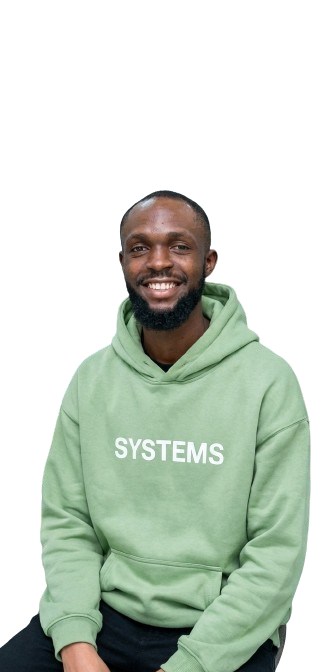
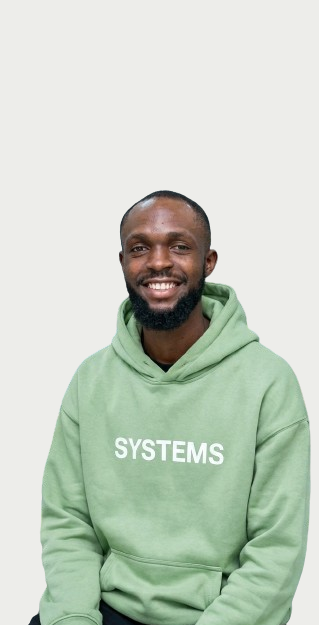
Fix photo to float freely without a card, mask crop with sage shape, redo Navbar for light theme and remove pulsing badge

Changed region(s): [[0.0, 0.2736, 0.9875, 1.0]]

diff --git a/src/components/Navbar.tsx b/src/components/Navbar.tsx
@@ -2,7 +2,7 @@ import React, { useState, useEffect } from 'react';
 import { BRAND_INFO, PAGES_CONFIG } from '../data/portfolioData';
 import { PageId } from '../types';
 import { sound } from '../utils/audio';
-import { Calendar, Menu, X, ArrowUpRight, Instagram, Layers } from 'lucide-react';
+import { Calendar, Menu, X, ArrowUpRight, Instagram } from 'lucide-react';
 
 interface NavbarProps {
   currentPage: PageId;
@@ -30,62 +30,52 @@ export const Navbar: React.FC<NavbarProps> = ({ currentPage, onNavigate, onOpenB
 
   return (
     <header className="sticky top-0 z-50 transition-all duration-300">
-      {/* Top Status Bar (Moritz Dunkel style) */}
-      <div className="bg-[#0C120F] text-[#EDEDEA] py-1.5 px-4 text-xs border-b border-white/5 font-mono">
+      {/* Top Status Bar */}
+      <div className="bg-[#EDEDEA] text-[#16201B] py-1.5 px-4 text-xs border-b border-black/5 font-mono">
         <div className="max-w-7xl mx-auto flex items-center justify-between">
-          <div className="flex items-center gap-2.5">
-            <span className="relative flex h-2 w-2">
-              <span className="animate-ping absolute inline-flex h-full w-full rounded-full bg-emerald-400 opacity-75"></span>
-              <span className="relative inline-flex rounded-full h-2 w-2 bg-emerald-500"></span>
-            </span>
-            <span className="text-white/80 text-[11px] uppercase tracking-wider">
-              OPERATIONAL SYSTEMS ARCHITECT • AVAILABLE FOR SELECT CLIENTS
-            </span>
-          </div>
-
-          <div className="hidden sm:flex items-center gap-4 text-[11px] text-white/60">
-            <span className="text-[#D4AF37]">● Certified Across 8 Tech Badges</span>
-            <a
-              href={BRAND_INFO.instagram}
-              target="_blank"
-              rel="noopener noreferrer"
-              className="text-white/80 hover:text-[#D4AF37] transition-colors flex items-center gap-1"
-            >
-              <span>{BRAND_INFO.instagramHandle}</span>
-              <ArrowUpRight className="w-3 h-3" />
-            </a>
-          </div>
+          <span className="text-[#16201B]/70 text-[11px]">
+            Open for new clients
+          </span>
+          <a
+            href={BRAND_INFO.instagram}
+            target="_blank"
+            rel="noopener noreferrer"
+            className="text-[#16201B]/70 hover:text-[#4A7350] transition-colors flex items-center gap-1 text-[11px]"
+          >
+            <span>{BRAND_INFO.instagramHandle}</span>
+            <ArrowUpRight className="w-3 h-3" />
+          </a>
         </div>
       </div>
 
       {/* Main Navigation Bar */}
       <div className={`px-4 sm:px-6 lg:px-8 transition-all ${
         scrolled
-          ? 'bg-[#111815]/95 backdrop-blur-xl border-b border-white/10 shadow-2xl py-3'
-          : 'bg-[#111815]/90 backdrop-blur-md border-b border-white/5 py-4'
+          ? 'bg-white/95 backdrop-blur-xl border-b border-black/10 shadow-md py-3'
+          : 'bg-white/90 backdrop-blur-md border-b border-black/5 py-4'
       }`}>
         <div className="max-w-7xl mx-auto flex items-center justify-between">
-          
+
           {/* Logo / Monogram */}
           <button
             onClick={() => handleNavClick('home')}
             className="flex items-center gap-3 group text-left cursor-pointer"
           >
-            <div className="w-9 h-9 rounded-lg bg-[#1B4332] text-[#D4AF37] flex items-center justify-center font-serif text-lg font-bold border border-[#D4AF37]/40 shadow-sm group-hover:scale-105 transition-transform">
+            <div className="w-9 h-9 rounded-lg bg-[#A8C6A9] text-[#16201B] flex items-center justify-center font-serif text-lg font-bold border border-[#4A7350]/30 shadow-sm group-hover:scale-105 transition-transform">
               O
             </div>
             <div>
-              <span className="block font-serif text-base sm:text-lg font-bold tracking-tight text-white leading-tight group-hover:text-[#D4AF37] transition-colors">
+              <span className="block font-serif text-base sm:text-lg font-bold tracking-tight text-[#16201B] leading-tight group-hover:text-[#4A7350] transition-colors">
                 Owens Oparaku
               </span>
-              <span className="block text-[10px] font-mono font-medium text-[#D4AF37] tracking-widest uppercase">
+              <span className="block text-[10px] font-mono font-medium text-[#4A7350] tracking-widest uppercase">
                 OPARAKU SYSTEMS
               </span>
             </div>
           </button>
 
           {/* Desktop 6-Page Navigation Links */}
-          <nav className="hidden lg:flex items-center gap-1 bg-white/5 p-1 rounded-full border border-white/10 shadow-inner">
+          <nav className="hidden lg:flex items-center gap-1 bg-black/5 p-1 rounded-full border border-black/5">
             {PAGES_CONFIG.map((page) => {
               const isActive = currentPage === page.id;
               return (
@@ -94,13 +84,10 @@ export const Navbar: React.FC<NavbarProps> = ({ currentPage, onNavigate, onOpenB
                   onClick={() => handleNavClick(page.id)}
                   className={`px-3.5 py-1.5 rounded-full text-xs font-mono transition-all flex items-center gap-1.5 cursor-pointer ${
                     isActive
-                      ? 'bg-[#D4AF37] text-[#111815] font-bold shadow-md'
-                      : 'text-white/70 hover:text-white hover:bg-white/10'
+                      ? 'bg-[#D4AF37] text-[#16201B] font-bold shadow-sm'
+                      : 'text-[#16201B]/70 hover:text-[#16201B] hover:bg-black/5'
                   }`}
                 >
-                  <span className={`text-[10px] ${isActive ? 'text-[#111815]' : 'text-[#D4AF37]'}`}>
-                    {page.index}
-                  </span>
                   <span>{page.shortTitle}</span>
                 </button>
               );
@@ -115,10 +102,10 @@ export const Navbar: React.FC<NavbarProps> = ({ currentPage, onNavigate, onOpenB
                 onOpenBooking();
               }}
               id="nav-book-call-btn"
-              className="inline-flex items-center gap-2 px-5 py-2.5 rounded-full bg-[#D4AF37] text-[#111815] text-xs font-bold font-mono uppercase tracking-wider hover:bg-[#E5C358] transition-all shadow-md group cursor-pointer"
+              className="inline-flex items-center gap-2 px-5 py-2.5 rounded-full bg-[#D4AF37] text-[#16201B] text-xs font-bold font-mono uppercase tracking-wider hover:bg-[#C29B26] transition-all shadow-sm group cursor-pointer"
             >
               <Calendar className="w-3.5 h-3.5" />
-              <span>Book Call</span>
+              <span>Book a call</span>
               <ArrowUpRight className="w-3.5 h-3.5 group-hover:translate-x-0.5 group-hover:-translate-y-0.5 transition-transform" />
             </button>
           </div>
@@ -130,14 +117,14 @@ export const Navbar: React.FC<NavbarProps> = ({ currentPage, onNavigate, onOpenB
                 sound.playTrigger();
                 onOpenBooking();
               }}
-              className="sm:hidden px-3 py-1.5 rounded-full bg-[#D4AF37] text-[#111815] text-[11px] font-bold font-mono uppercase flex items-center gap-1 cursor-pointer"
+              className="sm:hidden px-3 py-1.5 rounded-full bg-[#D4AF37] text-[#16201B] text-[11px] font-bold font-mono uppercase flex items-center gap-1 cursor-pointer"
             >
               <Calendar className="w-3 h-3" />
               <span>Call</span>
             </button>
             <button
               onClick={() => setMobileMenuOpen(!mobileMenuOpen)}
-              className="p-2 rounded-lg text-white/90 hover:bg-white/10 focus:outline-hidden cursor-pointer"
+              className="p-2 rounded-lg text-[#16201B] hover:bg-black/5 focus:outline-hidden cursor-pointer"
               aria-label="Toggle menu"
             >
               {mobileMenuOpen ? <X className="w-5 h-5" /> : <Menu className="w-5 h-5" />}
@@ -149,8 +136,8 @@ export const Navbar: React.FC<NavbarProps> = ({ currentPage, onNavigate, onOpenB
 
       {/* Mobile Drawer */}
       {mobileMenuOpen && (
-        <div className="lg:hidden bg-[#111815] border-b border-white/10 px-4 pt-3 pb-6 space-y-4 shadow-2xl">
-          <div className="grid grid-cols-2 gap-2 pb-4 border-b border-white/10 font-mono">
+        <div className="lg:hidden bg-white border-b border-black/10 px-4 pt-3 pb-6 space-y-4 shadow-md">
+          <div className="grid grid-cols-2 gap-2 pb-4 border-b border-black/10 font-mono">
             {PAGES_CONFIG.map((page) => {
               const isActive = currentPage === page.id;
               return (
@@ -159,13 +146,10 @@ export const Navbar: React.FC<NavbarProps> = ({ currentPage, onNavigate, onOpenB
                   onClick={() => handleNavClick(page.id)}
                   className={`px-3 py-2.5 text-xs rounded-lg flex items-center gap-2 text-left cursor-pointer transition-colors ${
                     isActive
-                      ? 'bg-[#D4AF37] text-[#111815] font-bold'
-                      : 'text-white/80 hover:text-white hover:bg-white/5'
+                      ? 'bg-[#D4AF37] text-[#16201B] font-bold'
+                      : 'text-[#16201B]/80 hover:text-[#16201B] hover:bg-black/5'
                   }`}
                 >
-                  <span className={`text-[10px] ${isActive ? 'text-[#111815]' : 'text-[#D4AF37]'}`}>
-                    {page.index}
-                  </span>
                   <span>{page.shortTitle}</span>
                 </button>
               );
@@ -179,21 +163,21 @@ export const Navbar: React.FC<NavbarProps> = ({ currentPage, onNavigate, onOpenB
                 sound.playTrigger();
                 onOpenBooking();
               }}
-              className="w-full py-3 px-4 rounded-xl bg-[#D4AF37] text-[#111815] font-bold text-xs uppercase font-mono tracking-wider text-center flex items-center justify-center gap-2 cursor-pointer"
+              className="w-full py-3 px-4 rounded-xl bg-[#D4AF37] text-[#16201B] font-bold text-xs uppercase font-mono tracking-wider text-center flex items-center justify-center gap-2 cursor-pointer"
             >
               <Calendar className="w-4 h-4" />
-              <span>Book Systems Discovery Call</span>
+              <span>Book a call</span>
               <ArrowUpRight className="w-4 h-4" />
             </button>
-            
+
             <a
               href={BRAND_INFO.instagram}
               target="_blank"
               rel="noopener noreferrer"
-              className="py-2.5 px-4 rounded-xl border border-white/10 text-white text-xs font-mono text-center flex items-center justify-center gap-2 hover:bg-white/5"
+              className="py-2.5 px-4 rounded-xl border border-black/10 text-[#16201B] text-xs font-mono text-center flex items-center justify-center gap-2 hover:bg-black/5"
             >
-              <Instagram className="w-3.5 h-3.5 text-[#D4AF37]" />
-              <span>Follow @notion_knight</span>
+              <Instagram className="w-3.5 h-3.5 text-[#4A7350]" />
+              <span>Follow {BRAND_INFO.instagramHandle}</span>
             </a>
           </div>
         </div>
@@ -201,4 +185,3 @@ export const Navbar: React.FC<NavbarProps> = ({ currentPage, onNavigate, onOpenB
     </header>
   );
 };
-

diff --git a/src/components/Hero.tsx b/src/components/Hero.tsx
@@ -83,40 +83,31 @@ export const Hero: React.FC<HeroProps> = ({ onOpenBooking }) => {
 
           </div>
 
-          {/* Right Column: New photo, white card, sage green base block */}
+          {/* Right Column: Free floating photo, no card */}
           <div className="lg:col-span-5 flex justify-center">
             <div className="relative w-full max-w-sm sm:max-w-md">
 
-              <div className="relative rounded-3xl overflow-hidden bg-white border border-black/10 shadow-xl">
-                {!imageError ? (
-                  <img
-                    src={owensProfilePhoto}
-                    alt="Owens Oparaku"
-                    className="w-full h-auto max-h-[440px] object-contain object-bottom mx-auto pt-6"
-                    onError={() => setImageError(true)}
-                  />
-                ) : (
-                  <div className="w-full h-80 flex flex-col items-center justify-center bg-white text-[#16201B] p-6 text-center">
-                    <span className="font-serif text-4xl font-bold text-[#4A7350] mb-2">OO</span>
-                    <span className="font-serif text-lg font-bold">Owens Oparaku</span>
-                  </div>
-                )}
+              {/* Soft sage shape sitting behind the lower half, masks the crop and grounds the photo */}
+              <div className="absolute bottom-6 inset-x-6 h-2/5 bg-[#A8C6A9] rounded-[2.5rem] -z-10" />
 
-                {/* Sage green base block, doubles as the name plate */}
-                <div className="bg-[#A8C6A9] px-5 py-4 flex items-center justify-between">
-                  <div>
-                    <h3 className="font-serif text-base font-bold text-[#16201B] leading-tight">
-                      Owens Oparaku
-                    </h3>
-                    <p className="text-xs text-[#16201B]/70 font-medium">
-                      Systems & operations architect
-                    </p>
-                  </div>
-                  <span className="px-2.5 py-1 rounded-full bg-white/60 text-[#16201B] text-[11px] font-semibold flex items-center gap-1.5">
-                    <span className="w-1.5 h-1.5 rounded-full bg-[#3D5F41] animate-pulse"></span>
-                    Open for Q2/Q3
-                  </span>
+              {!imageError ? (
+                <img
+                  src={owensProfilePhoto}
+                  alt="Owens Oparaku"
+                  className="w-full h-auto max-h-[460px] object-contain object-bottom mx-auto"
+                  onError={() => setImageError(true)}
+                />
+              ) : (
+                <div className="w-full h-80 flex flex-col items-center justify-center text-[#16201B] p-6 text-center">
+                  <span className="font-serif text-4xl font-bold text-[#4A7350] mb-2">OO</span>
+                  <span className="font-serif text-lg font-bold">Owens Oparaku</span>
                 </div>
+              )}
+
+              <div className="mt-4 flex items-center justify-center gap-2.5">
+                <span className="font-serif text-base font-bold text-[#16201B]">Owens Oparaku</span>
+                <span className="text-[#16201B]/40">•</span>
+                <span className="text-xs text-[#16201B]/70 font-medium">Systems & operations architect</span>
               </div>
 
             </div>
